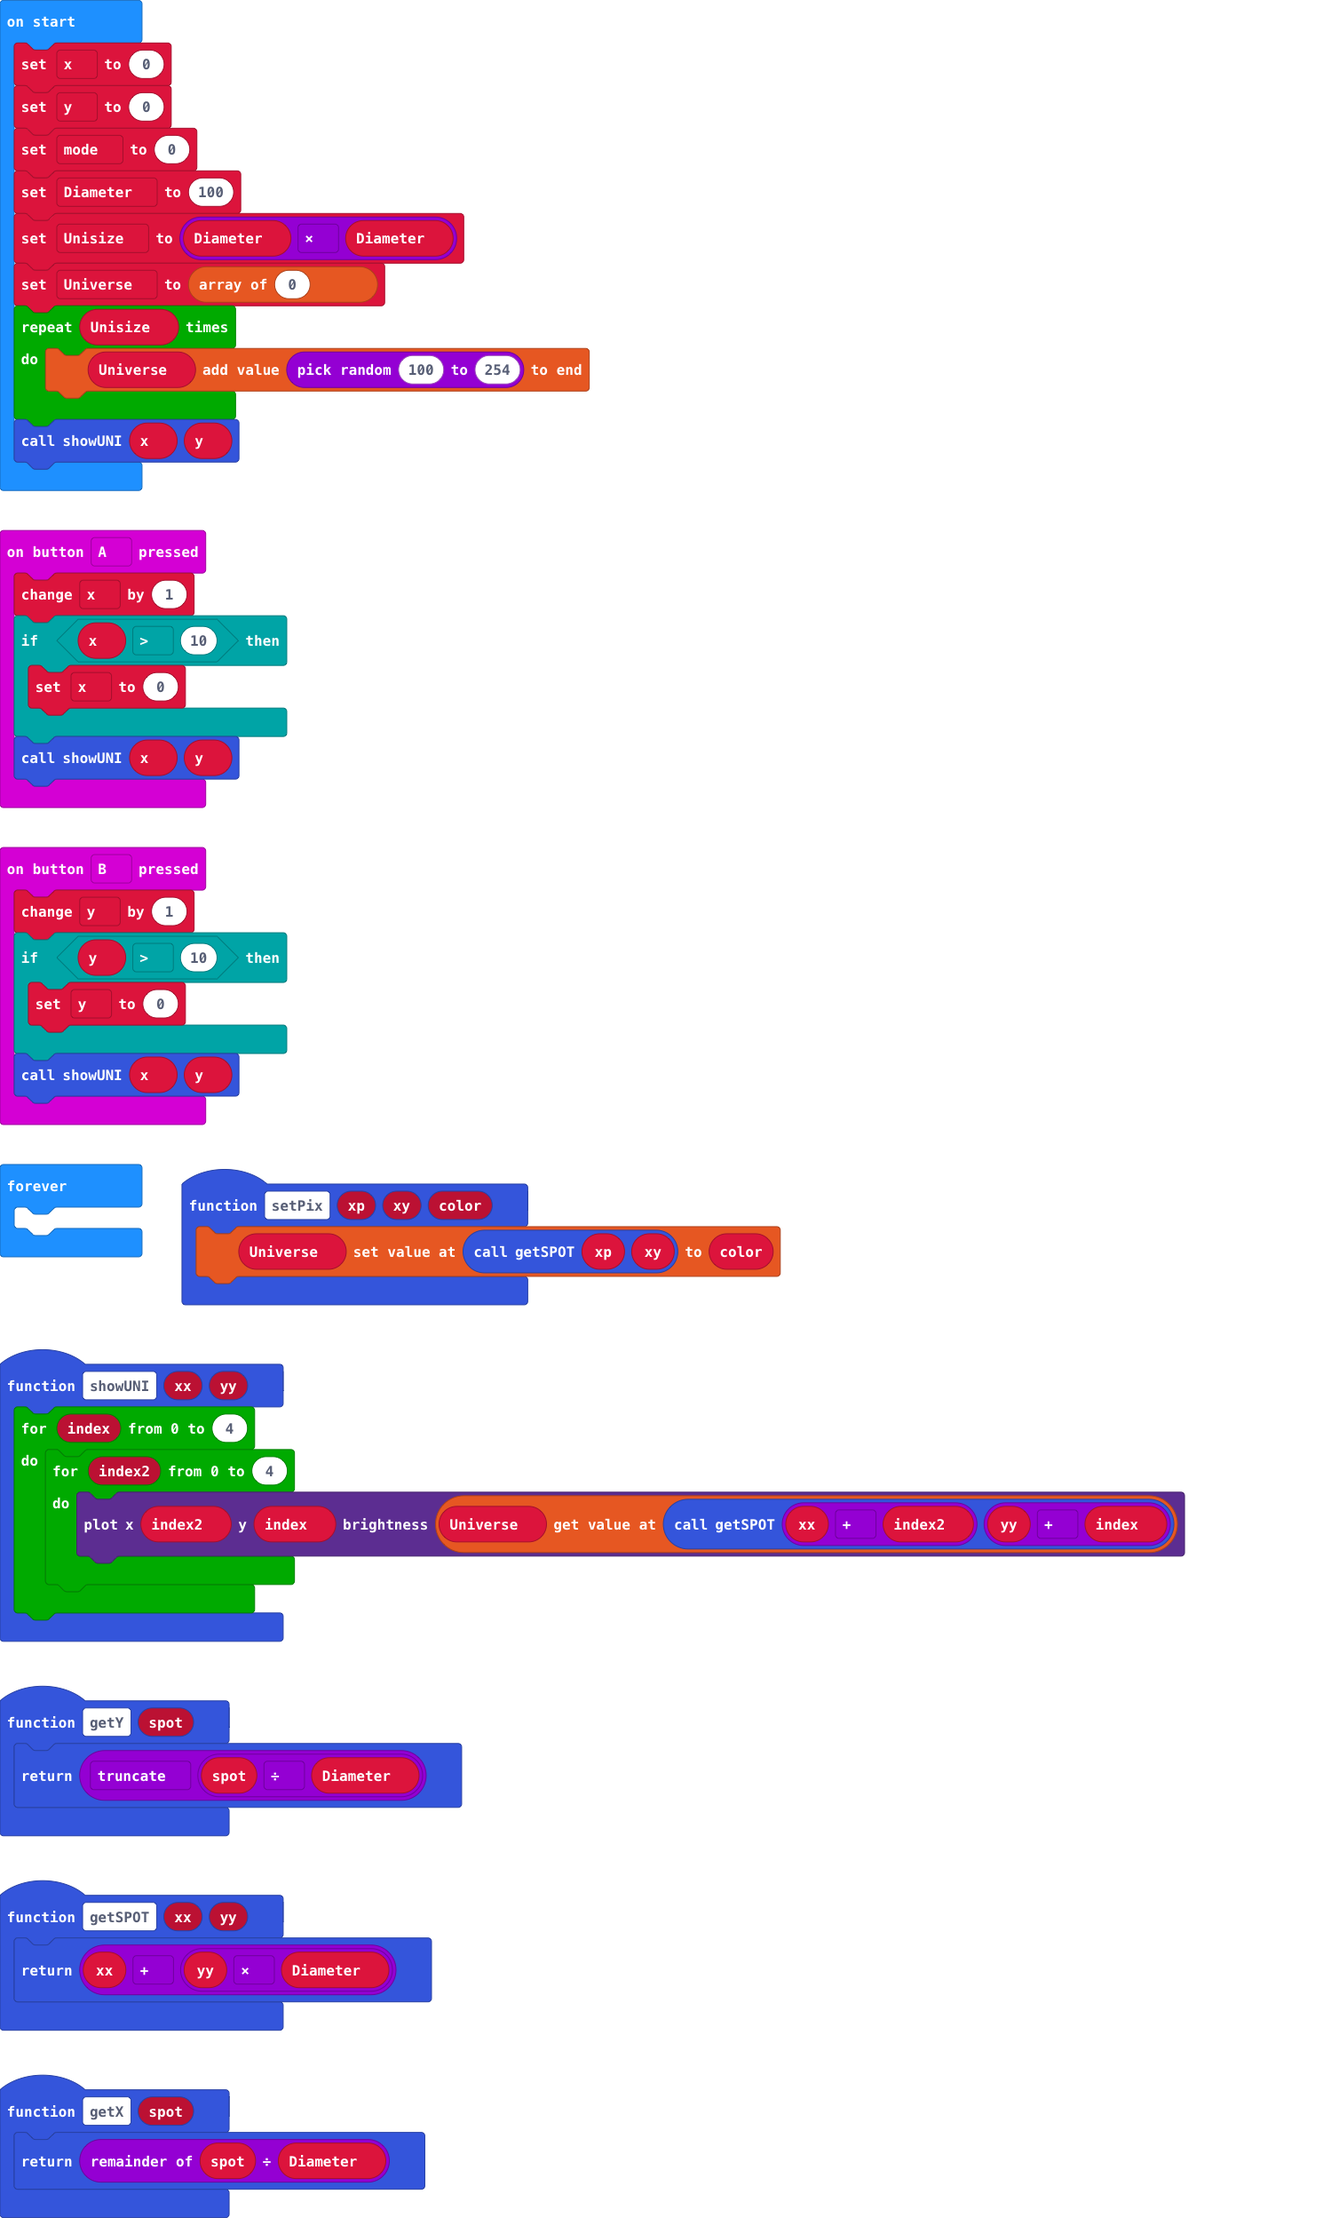
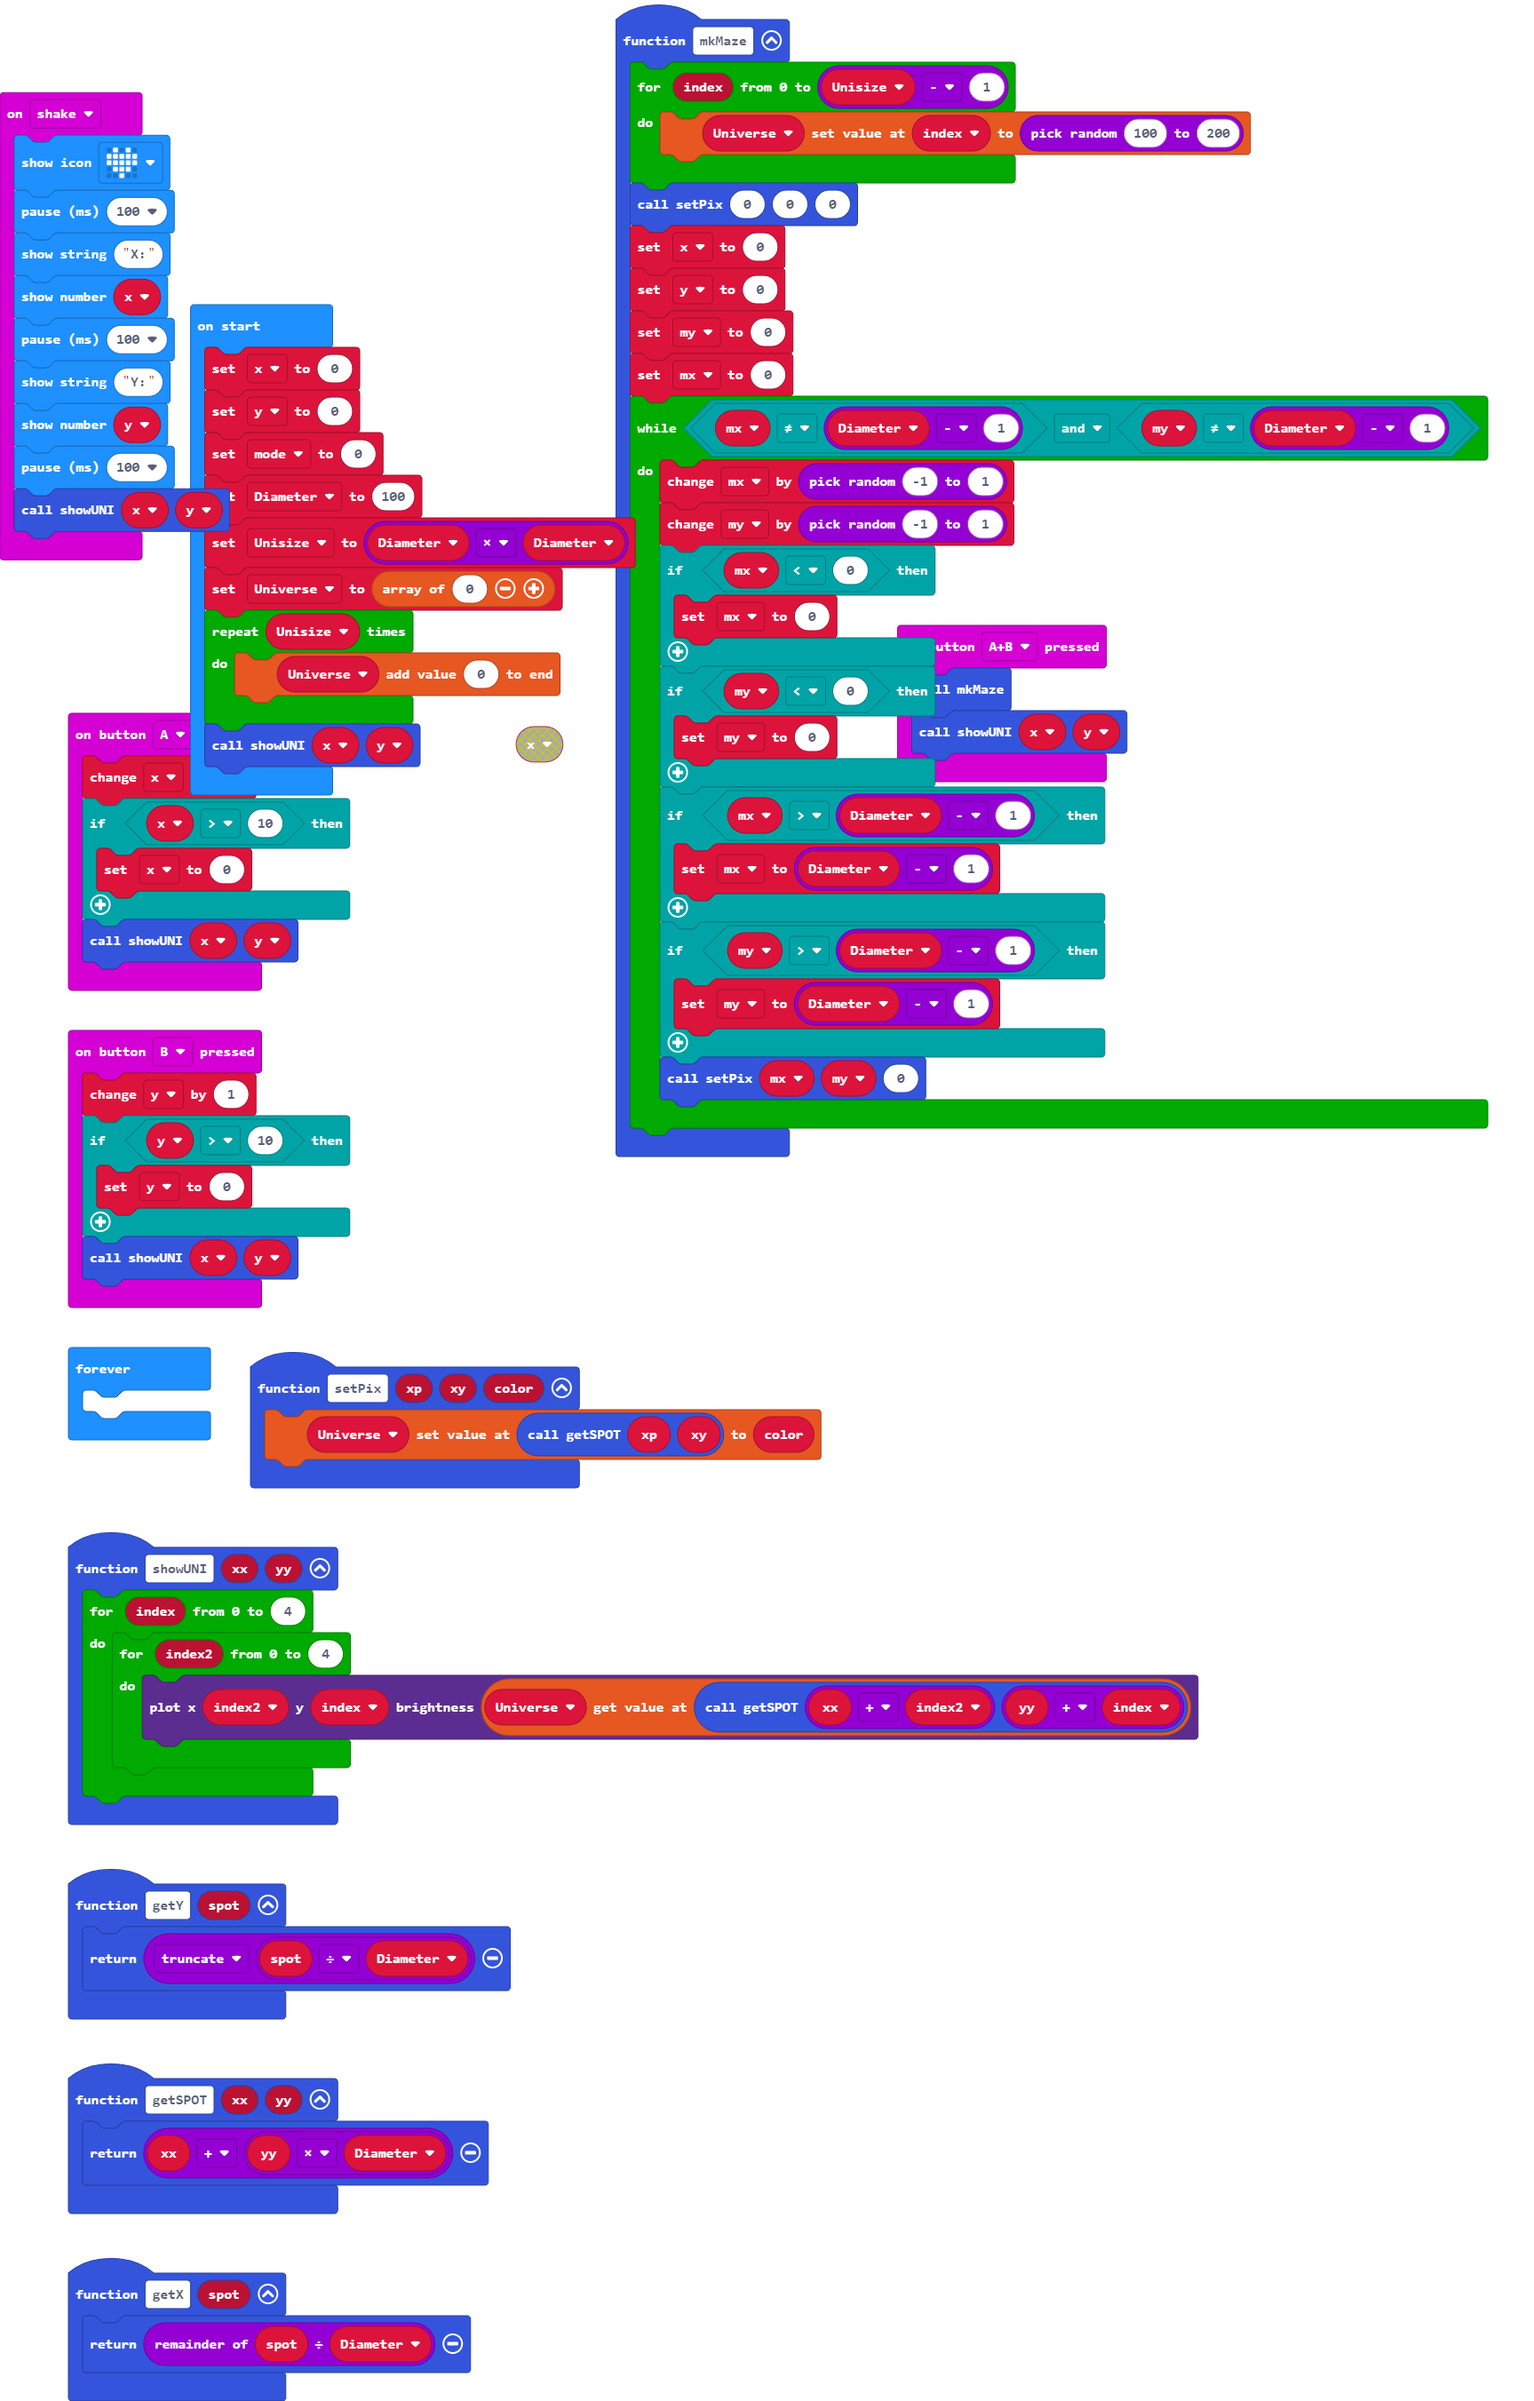
Update main.blocks, main.ts

diff --git a/main.ts b/main.ts
@@ -15,6 +15,10 @@ input.onButtonPressed(Button.A, function () {
     }
     showUNI(x, y)
 })
+input.onButtonPressed(Button.AB, function () {
+    mkMaze()
+    showUNI(x, y)
+})
 input.onButtonPressed(Button.B, function () {
     y += 1
     if (y > 10) {
@@ -22,6 +26,44 @@ input.onButtonPressed(Button.B, function () {
     }
     showUNI(x, y)
 })
+input.onGesture(Gesture.Shake, function () {
+    basic.showIcon(IconNames.Heart)
+    basic.pause(100)
+    basic.showString("X:")
+    basic.showNumber(x)
+    basic.pause(100)
+    basic.showString("Y:")
+    basic.showNumber(y)
+    basic.pause(100)
+    showUNI(x, y)
+})
+function mkMaze () {
+    for (let index = 0; index <= Unisize - 1; index++) {
+        Universe[index] = randint(100, 200)
+    }
+    setPix(0, 0, 0)
+    x = 0
+    y = 0
+    my = 0
+    mx = 0
+    while (mx != Diameter - 1 && my != Diameter - 1) {
+        mx += randint(-1, 1)
+        my += randint(-1, 1)
+        if (mx < 0) {
+            mx = 0
+        }
+        if (my < 0) {
+            my = 0
+        }
+        if (mx > Diameter - 1) {
+            mx = Diameter - 1
+        }
+        if (my > Diameter - 1) {
+            my = Diameter - 1
+        }
+        setPix(mx, my, 0)
+    }
+}
 function getY (spot: number) {
     return Math.trunc(spot / Diameter)
 }
@@ -31,7 +73,10 @@ function getSPOT (xx: number, yy: number) {
 function getX (spot: number) {
     return spot % Diameter
 }
+let mx = 0
+let my = 0
 let Universe: number[] = []
+let Unisize = 0
 let Diameter = 0
 let y = 0
 let x = 0
@@ -39,10 +84,10 @@ x = 0
 y = 0
 let mode = 0
 Diameter = 100
-let Unisize = Diameter * Diameter
+Unisize = Diameter * Diameter
 Universe = [0]
 for (let index = 0; index < Unisize; index++) {
-    Universe.push(randint(100, 254))
+    Universe.push(0)
 }
 showUNI(x, y)
 basic.forever(function () {
